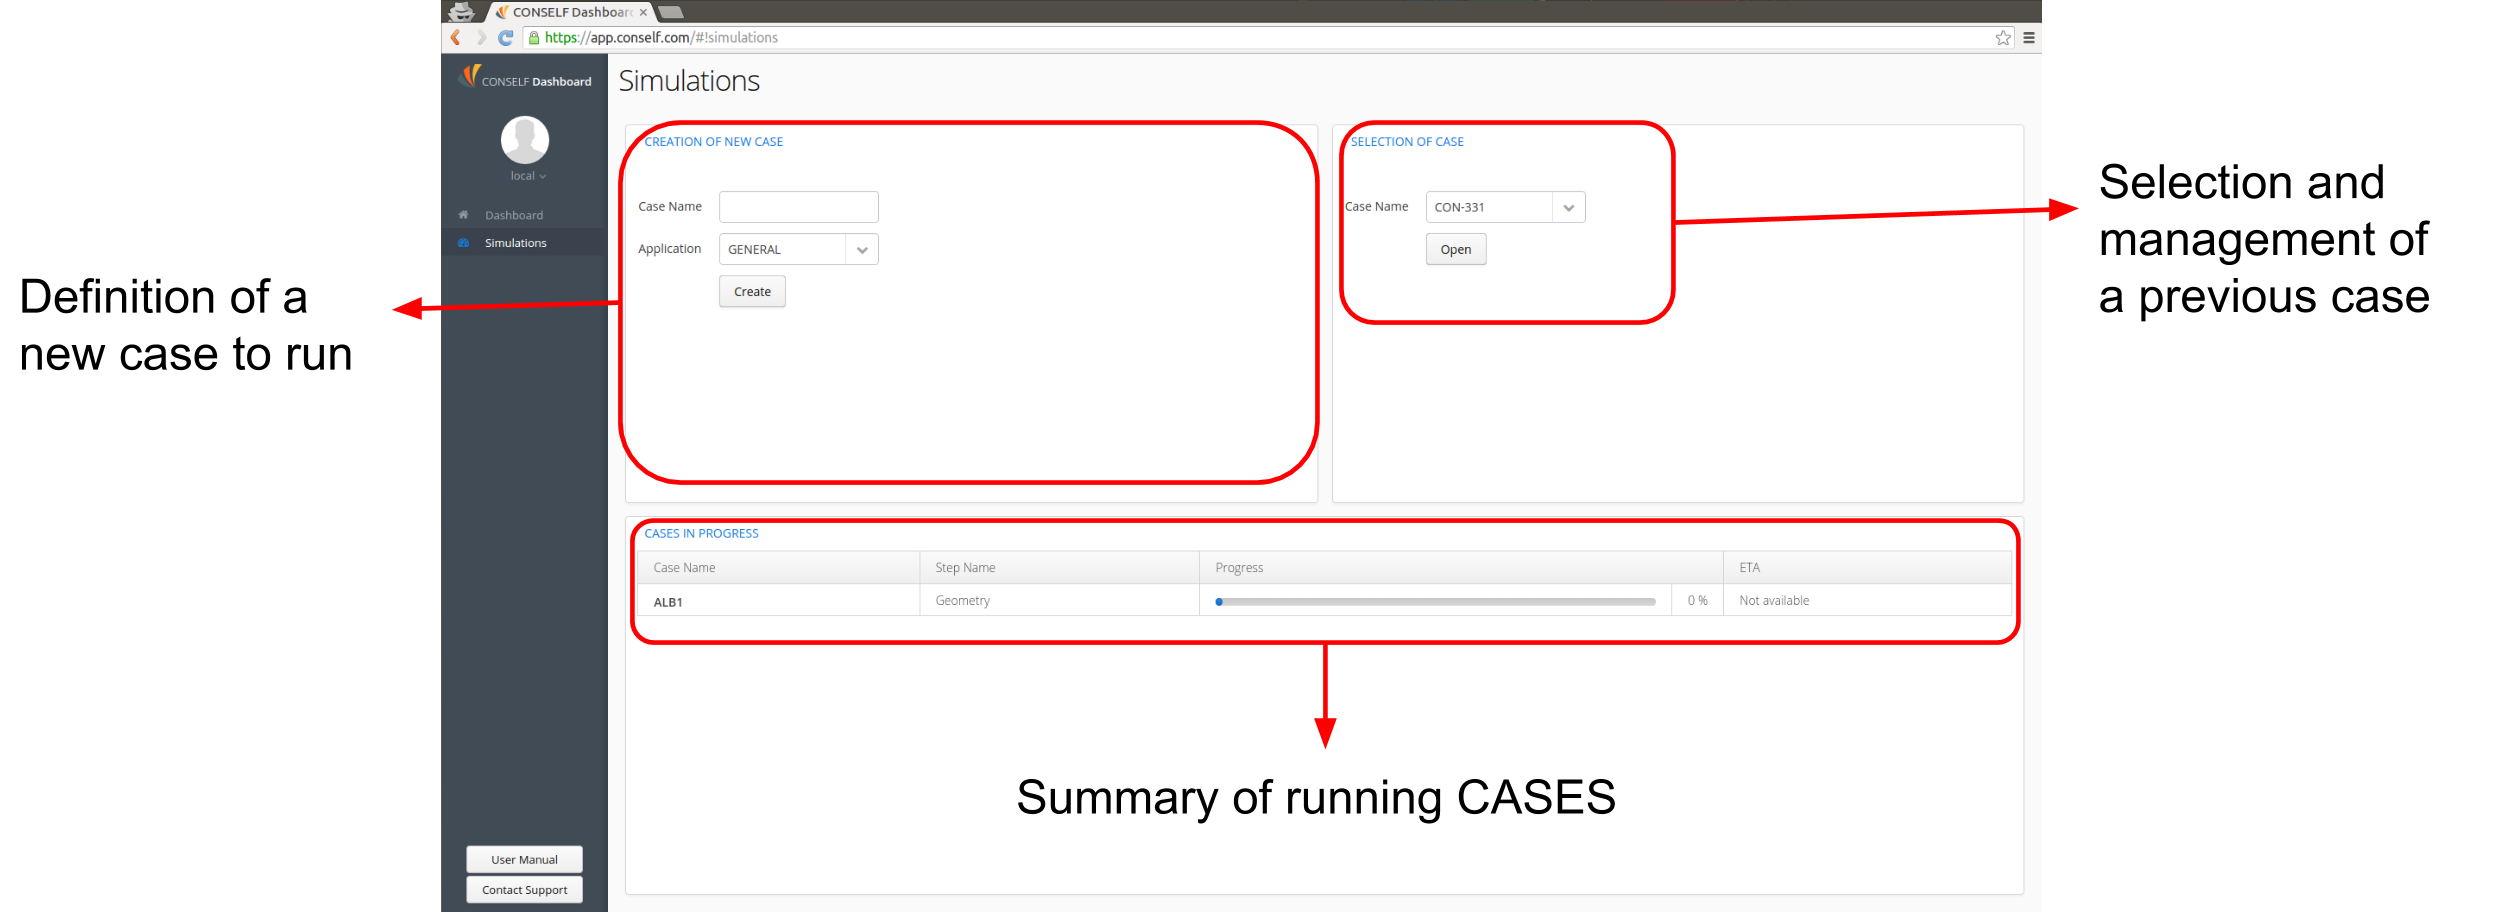
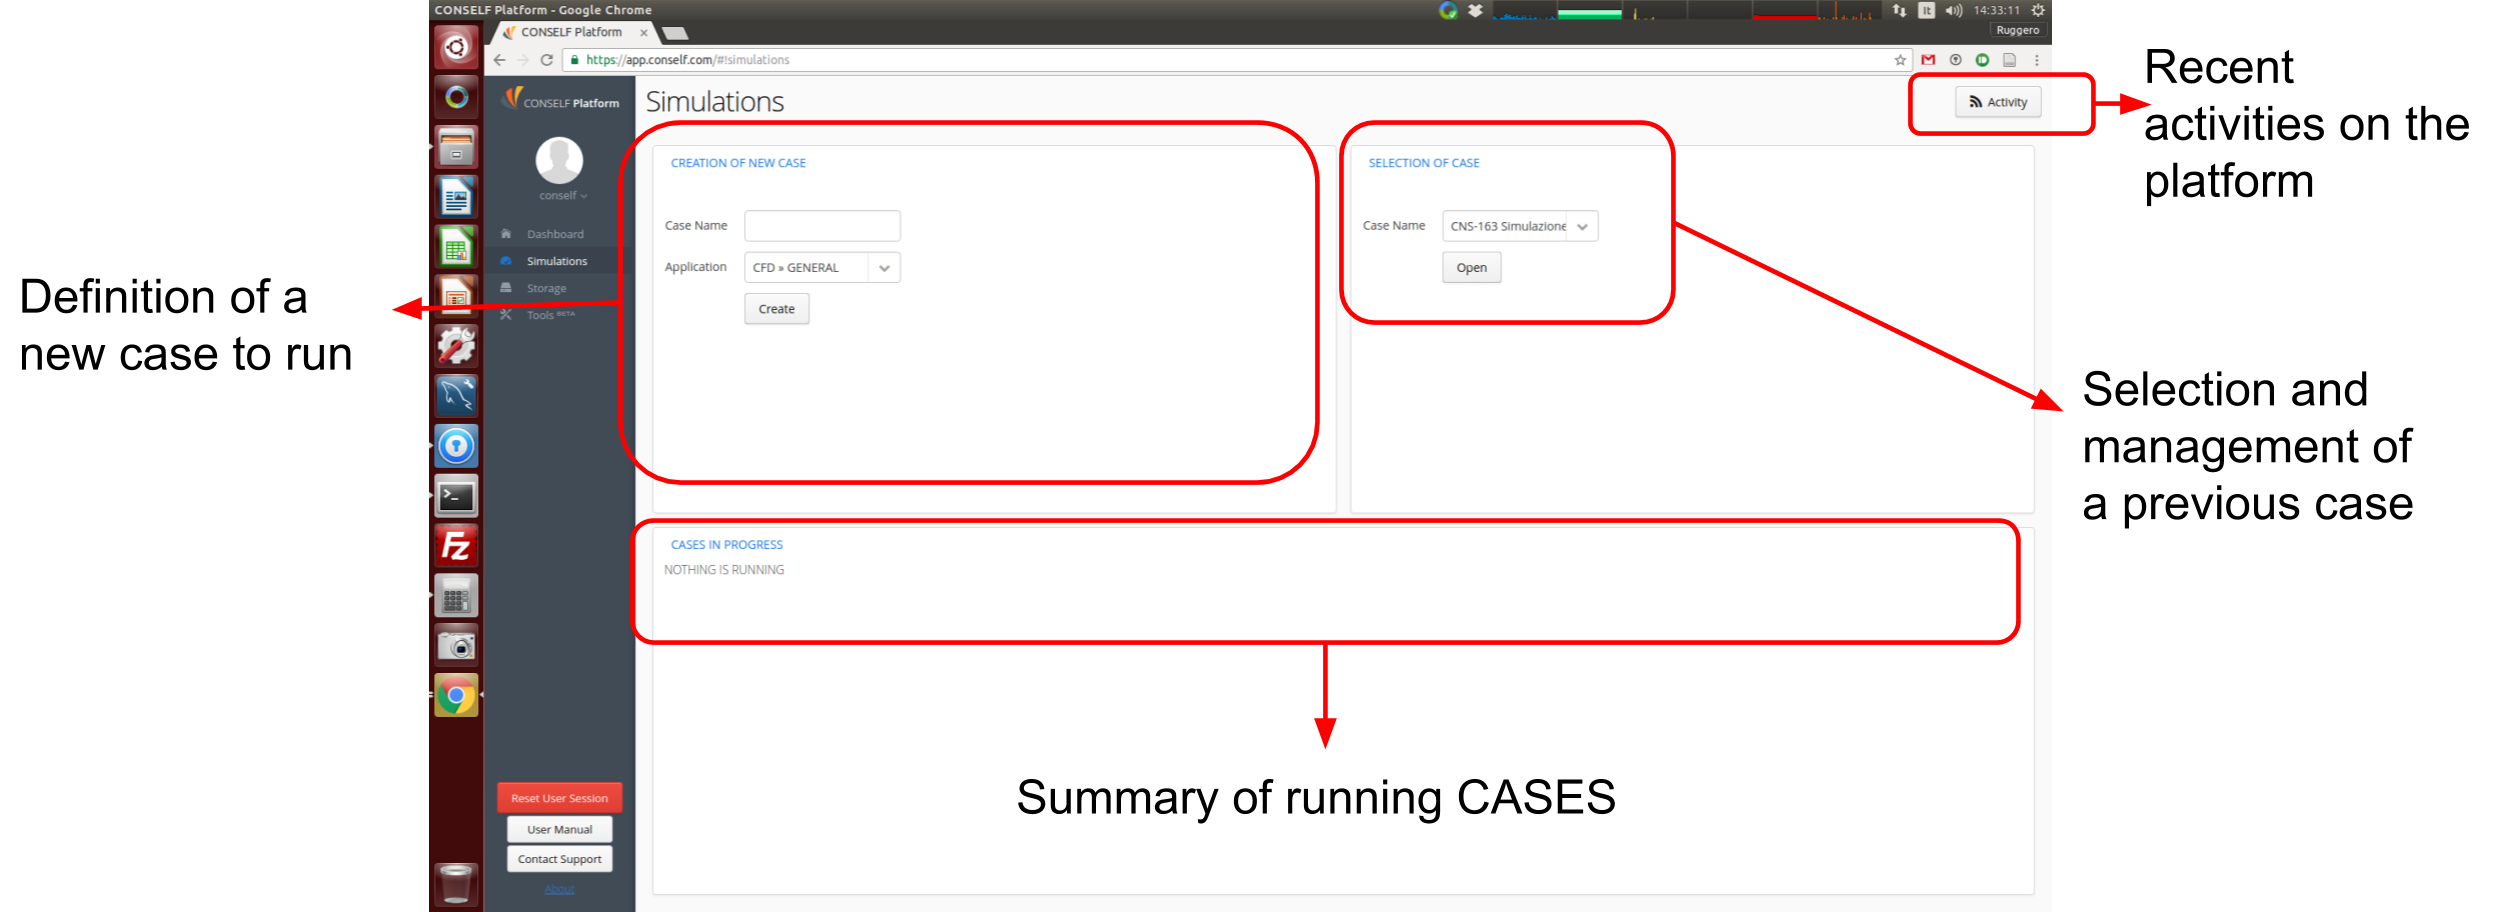
recent activities

diff --git a/docs/manual/simulation-process/index.html b/docs/manual/simulation-process/index.html
@@ -412,7 +412,7 @@
 <p>After having logged in, the CONSELF dashboard appears on screen. On the menu on the left side, the last entry is the <strong>Simulations</strong> tab. Click on it to be redirected to the simulations front page, shown in the following figure. There are three main sections: two in the upper part and one in the bottom part as also highlighted by the following image.</p>
 
 
-<figure class="figure-50">
+<figure class="figure-80">
     
         <img src="/images/CarSimulationCaseCreation.png" alt="Definitions of the zones in which the user interface is divided" />
     
@@ -494,7 +494,7 @@
 </div>
 
 
-<p>On the right handside, it is possible to access previously created simulation which have not been erased yet. All the data are in fact stored using the cloud <a href="http://docs.conself.com/manual/simulation-process/#disk-management">space available</a> according to your cloud account.</p>
+<p>On the right handside, it is possible to access previously created simulations which have not been erased yet. All the data are in fact stored using the cloud <a href="http://docs.conself.com/manual/simulation-process/#disk-management">space available</a> according to your active subscription.</p>
 
 <ul>
 <li><em>Selection of case</em>: the user can open a previously created case from the drop-down list.
@@ -503,6 +503,22 @@
 <li><em>Open</em> button redirects the user to the section/step where they left the last time that particular case was edited.</li>
 </ul></li>
 </ul>
+
+<p>It is possible also to have an overview of recent activities in the platform, i.e. finished steps and cases using the <em>Activity</em> button on top of this page. This button opens a further window which shows a list of recently submitted steps, with the information regarding each of them.</p>
+
+
+<figure class="figure-50">
+    
+        <img src="/images/ActivitySummary.png" alt="Recent activities notification" />
+    
+    
+    <figcaption>
+        <h4>Recent activities notification</h4>
+        
+    </figcaption>
+    
+</figure>
+
 
 <p>The bottom part of this page is actually peculiar because it gives quite a few information about the steps which are submitted to the system to be processed.</p>
 

diff --git a/content/manual/simulation-process.md b/content/manual/simulation-process.md
@@ -31,7 +31,7 @@ In the present manual, each of these steps are accurately described and displaye
 
 After having logged in, the CONSELF dashboard appears on screen. On the menu on the left side, the last entry is the **Simulations** tab. Click on it to be redirected to the simulations front page, shown in the following figure. There are three main sections: two in the upper part and one in the bottom part as also highlighted by the following image.
 
-{{< figure src="/images/CarSimulationCaseCreation.png" alt="Definitions of the zones in which the user interface is divided" title="Definitions of the zones in which the user interface is divided" class="figure-50" >}}
+{{< figure src="/images/CarSimulationCaseCreation.png" alt="Definitions of the zones in which the user interface is divided" title="Definitions of the zones in which the user interface is divided" class="figure-80" >}}
 
 When defining a new case, the user is requested a certain number of inputs:
 
@@ -54,10 +54,14 @@ When defining a new case, the user is requested a certain number of inputs:
 Type the first part of the application name to filter the available choices.
 {{% /notice %}}
 
-On the right handside, it is possible to access previously created simulation which have not been erased yet. All the data are in fact stored using the cloud [space available]({{< ref "simulation-process.md#disk-management" >}}) according to your cloud account.
+On the right handside, it is possible to access previously created simulations which have not been erased yet. All the data are in fact stored using the cloud [space available]({{< ref "simulation-process.md#disk-management" >}}) according to your active subscription.
 
 - *Selection of case*: the user can open a previously created case from the drop-down list.
 	- *Open* button redirects the user to the section/step where they left the last time that particular case was edited.
+
+It is possible also to have an overview of recent activities in the platform, i.e. finished steps and cases using the *Activity* button on top of this page. This button opens a further window which shows a list of recently submitted steps, with the information regarding each of them.
+
+{{< figure src="/images/ActivitySummary.png" alt="Recent activities notification" title="Recent activities notification" class="figure-50">}}
 
 The bottom part of this page is actually peculiar because it gives quite a few information about the steps which are submitted to the system to be processed.
 
